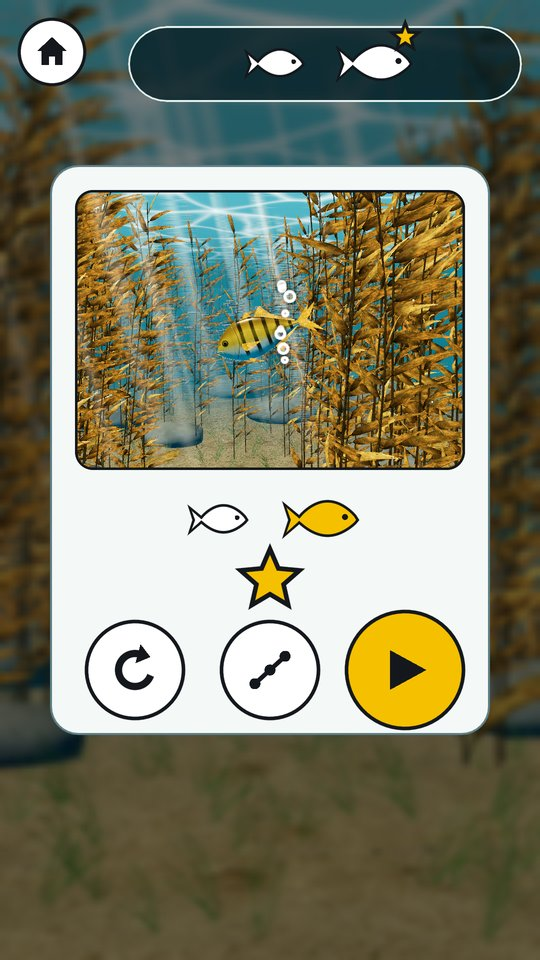
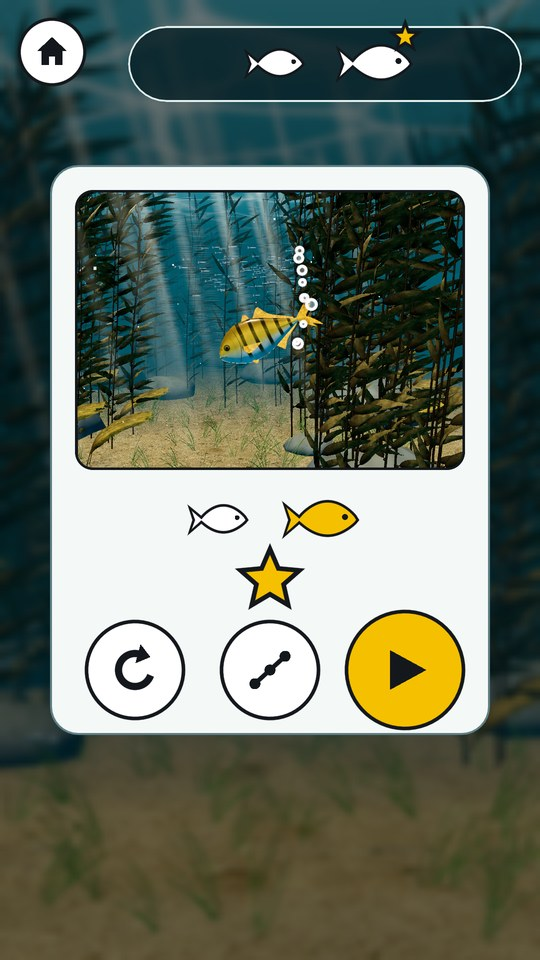
README: new screenshots and how touching food works

diff --git a/README.md b/README.md
@@ -2,11 +2,11 @@
 
 <p>
   <img src="screenshots/gameplay.jpg" width="280" alt="Level 2: the golden player fish in open water, bubble rings around smaller fish it can eat and a spiky ring around a bigger fish">
-  <img src="screenshots/steering.jpg" width="280" alt="Level 1: the fish glides toward the aim ring a little above the finger">
+  <img src="screenshots/steering.jpg" width="280" alt="Level 1: the fish glides toward the aim ring by the finger">
   <img src="screenshots/win_card.jpg" width="280" alt="Level 1 win card: the grown fish, one star and the replay, map and next buttons">
 </p>
 
-**How to play:** hold a finger where you want to go and the fish glides there calmly, slowing down and settling under your finger. Eat the fish inside bubble rings, keep away from the spiky ones.
+**How to play:** hold a finger where you want to go and the fish glides there calmly, slowing down and settling under your finger. Touch a fish inside a bubble ring and your fish swims to it and eats it; keep away from the spiky ones.
 
 An underwater eat-and-grow game for children (ages 4-7 on Lett, 8+ on Vanlig). You steer a small golden fish with one finger through a sunlit kelp forest, eat the fish that are smaller than you, keep away from the bigger ones and grow until you reach the level's goal. A big fish that catches you just burps you out in a bubble, so a small child never loses.
 
@@ -29,7 +29,7 @@ World 1 "Tareskogen" (kelp forest), levels 1-5, in two settings:
 | 5 | Solstriper | grow to 4 / 5 | calm breather level |
 
 How it plays:
-- **Follow the finger:** hold a finger where you want to swim; the fish glides to a point a little above the fingertip, eases in and settles there, and turns around smoothly. Speeds are kept slow enough for a 4-year-old to follow (softer controls after the owner's phone test, 2026-10-10). A tap works too.
+- **Follow the finger:** hold a finger where you want to swim; the fish glides to a point a little above the fingertip (60 px on Lett, 120 px on Vanlig), eases in and settles there, and turns around smoothly. A finger within 160 px of a fish it can eat aims at that fish, so "touch the fish you want" works; it never aims at a bigger fish. Speeds are kept slow enough for a 4-year-old to follow (softer controls after the owner's phone test, 2026-10-10). A tap works too.
 - **Size tiers:** every fish has a size 1-10. Smaller fish are food, bigger fish are danger, same-size fish just bump.
 - **Four "can I eat it?" cues, none of them colour:** the size itself, your fish's mouth opens when food is in front of it, a smooth bubble ring around food and a spiky zigzag ring around danger, and danger fish open their mouths when close.
 - **Gentle catch:** Lett costs nothing (burped out in a bubble). Vanlig empties the current size meter; world 1 has unlimited bubbles, so there is never a restart here.
@@ -66,4 +66,4 @@ XDG_DATA_HOME=<tmp> CAPTURE_DIR=<dir> godot --audio-driver Dummy --display-drive
 
 The logic test has a bot clear levels 1-5 in both settings and checks the rules (catches, bobler and the gentle restart, bump, spawn mix, chase, kelp, Bobla, pearls, save, sounds). Never build the APK locally; CI does it (`.github/workflows/build-android.yml`).
 
-Credits and licences: `CREDITS.md`.
+Credits and licences: `CREDITS.md`. The Godot licence and its third-party notices are on the settings panel ("Lisenser").
